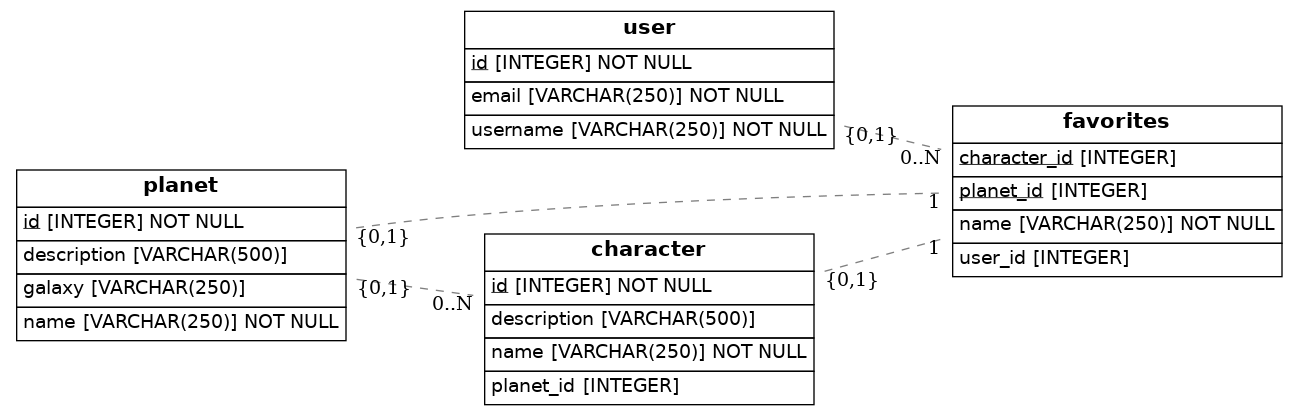
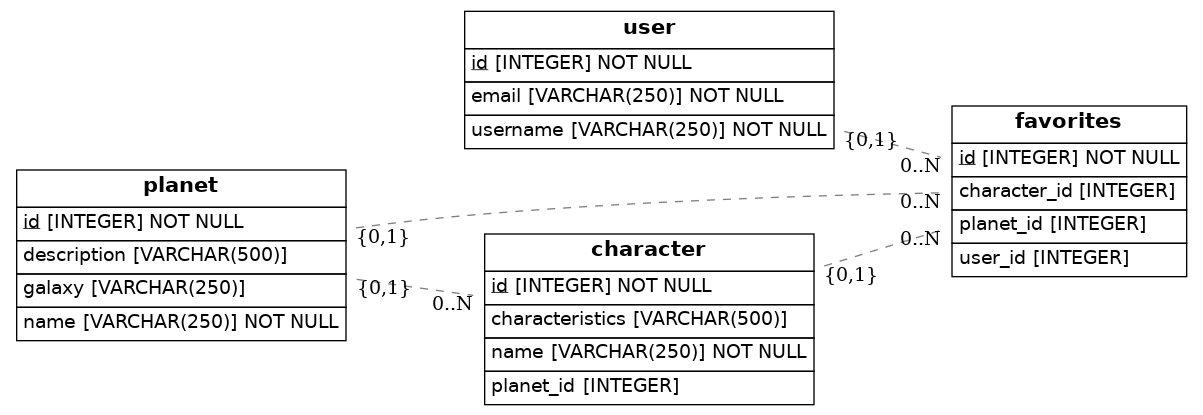
exercise revised and finalised

diff --git a/src/models.py b/src/models.py
@@ -1,6 +1,6 @@
 import os
 import sys
-from sqlalchemy import Column, ForeignKey, Integer, String, PrimaryKeyConstraint
+from sqlalchemy import Column, ForeignKey, Integer, String
 from sqlalchemy.orm import relationship, declarative_base
 from sqlalchemy import create_engine
 from eralchemy2 import render_er
@@ -13,37 +13,26 @@ class User(Base):
     username = Column(String(250), nullable=False, unique=True)
     email = Column(String(250), nullable=False, unique=True)
 
-    favorites = relationship("Favorites", back_populates="user")
-
 class Character(Base):
     __tablename__ = 'character'
     id = Column(Integer, primary_key=True)
     name = Column(String(250), nullable=False)
-    description = Column(String(500))
+    characteristics = Column(String(250))
     planet_id = Column(Integer, ForeignKey('planet.id'))
 
 class Planet(Base):
     __tablename__ = 'planet'
     id = Column(Integer, primary_key=True)
     name = Column(String(250), nullable=False)
-    description = Column(String(500))
+    characteristics = Column(String(250))
     galaxy = Column(String(250))
-
-    characters = relationship("Character", back_populates="planet")
 
 class Favorites(Base):
     __tablename__ = 'favorites'
-    name = Column(String(250), nullable=False)
+    id = Column(Integer, primary_key=True)
     user_id = Column(Integer, ForeignKey('user.id'))
-    character_id = Column(Integer, ForeignKey('character.id', ondelete="SET NULL"), nullable=True)
-    planet_id = Column(Integer, ForeignKey('planet.id', ondelete="SET NULL"), nullable=True)
-
-    character = relationship("Character", back_populates="favorites")
-    planet = relationship("Planet", back_populates="favorites")
-
-    __table_args__ = (
-        PrimaryKeyConstraint('character_id', 'planet_id'),
-    )
+    character_id = Column(Integer, ForeignKey('character.id'), nullable=True)
+    planet_id = Column(Integer, ForeignKey('planet.id'), nullable=True)
 
 ## Draw from SQLAlchemy base
 render_er(Base, 'diagram.png')
